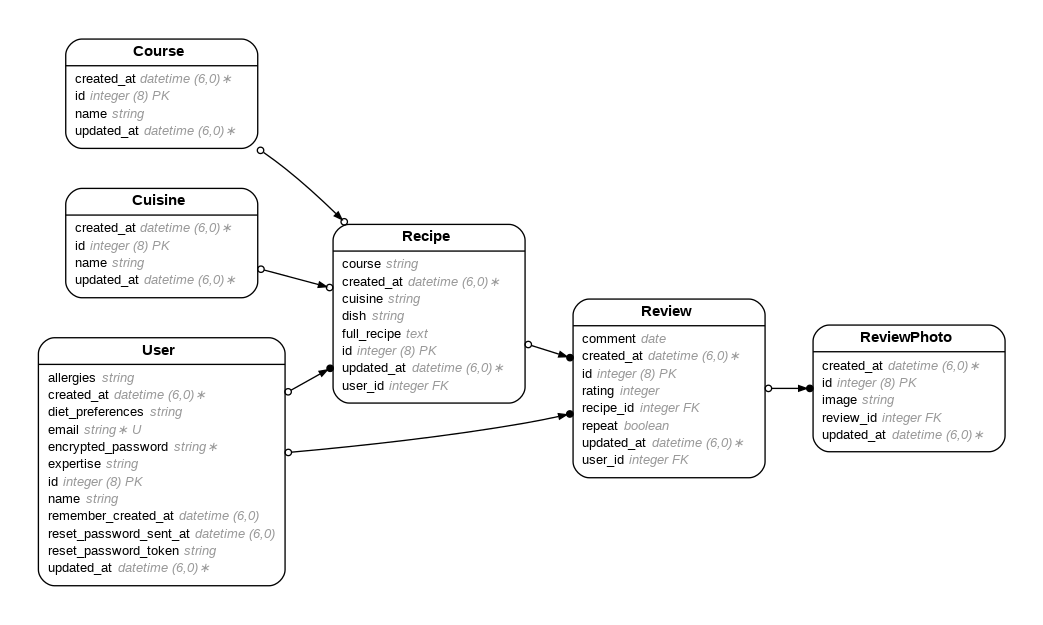
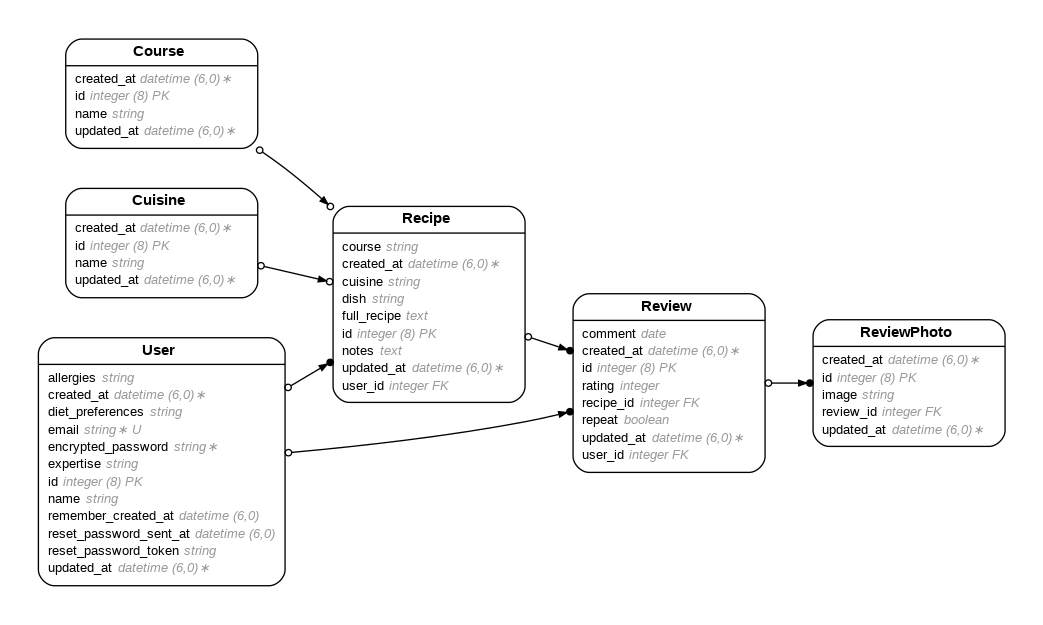
openAI loop completed

diff --git a/app/controllers/recipes_controller.rb b/app/controllers/recipes_controller.rb
@@ -12,20 +12,23 @@ class RecipesController < ApplicationController
     the_recipe.dish = params.fetch("dish")
     the_recipe.course = params.fetch("course")
     the_recipe.cuisine = params.fetch("cuisine")
+    the_recipe.notes = params.fetch("notes")
+
+    #prompt_text = "I need you to create a step by step recipe for #{the_recipe.dish}. More details about the dish: cuisine is #{the_recipe.cuisine}, it is a #{the_recipe.course} course. The user is #{current_user.expertise} chef. They also dietary preferences as #{current_user.diet_preferences} and are allergic to #{current_user.allergies}. The output needs to be structured as - first, give a bullet point ingredient list. Next, give approximate time to cook. Follow that with an estimate of macronutrients in this dish. Then, give a step by step recipe based on the user's profile shared earlier. Based on the user's profile and macronutrients in the current dish, give 2-3 suggestions the user can choose from for their next meal. Optimize for overall nutrition while giving suggestions."
+
+    # Swap the variable once user profile sheet is created
+    prompt_text = "I need you to create a step by step recipe for #{the_recipe.dish}. More details about the dish: cuisine is #{the_recipe.cuisine}, it is a #{the_recipe.course} course. The output needs to be structured as - first, give a bullet point ingredient list. Next, give approximate time to cook. Follow that with an estimate of macronutrients in this dish. Then, give a step by step recipe. Based on the macronutrients in the current dish, give 2-3 suggestions the user can choose from for their next meal. Optimize for overall nutrition while giving suggestions."
 
     if the_recipe.valid?
-      the_recipe.save
       
+      api_response=OPENAI_CLIENT.chat(:parameters=> {:model =>"gpt-3.5-turbo",:messages=>[{"role"=>"system","content"=> "You are a helpful recipe assistant"}, {"role"=>"user","content"=>prompt_text}]})
+      choices=api_response.fetch("choices")
+      first_choice=choices.at(0)
+      message_hash=first_choice.fetch("message")
+      user_recipe=message_hash.fetch("content")
+      the_recipe.full_recipe = user_recipe
 
-
-
-
-
-
-
-
-
-
+      the_recipe.save
       redirect_to("/recipes/"+the_recipe.id.to_s, { :notice => "Recipe created successfully." })
     else
       redirect_to("/recipes", { :alert => the_recipe.errors.full_messages.to_sentence })
@@ -33,47 +36,12 @@ class RecipesController < ApplicationController
   end
 
 
-  #check below
+  
   def show
-    the_id = params.fetch("path_id")
-
-    matching_recipes = Recipe.where({ :id => the_id })
-
-    @the_recipe = matching_recipes.at(0)
-
+    the_id=params.fetch("path_id")
+    matching_recipes=Recipe.where({:id=>the_id})
+    @the_recipe=matching_recipes.at(0)
     render({ :template => "recipes/show" })
   end
 
-  
-  def update
-    the_id = params.fetch("path_id")
-    the_recipe = Recipe.where({ :id => the_id }).at(0)
-
-    the_recipe.user_id = params.fetch("query_user_id")
-    the_recipe.name = params.fetch("query_name")
-    the_recipe.dish_type = params.fetch("query_dish_type")
-    the_recipe.full_recipe = params.fetch("query_full_recipe")
-    the_recipe.cuisine = params.fetch("query_cuisine")
-
-    if the_recipe.valid?
-      the_recipe.save
-      redirect_to("/recipes/#{the_recipe.id}", { :notice => "Recipe updated successfully."} )
-    else
-      redirect_to("/recipes/#{the_recipe.id}", { :alert => the_recipe.errors.full_messages.to_sentence })
-    end
-  end
-
-  def destroy
-    the_id = params.fetch("path_id")
-    the_recipe = Recipe.where({ :id => the_id }).at(0)
-
-    the_recipe.destroy
-
-    redirect_to("/recipes", { :notice => "Recipe deleted successfully."} )
-  end
-
-  def new
-    @recipe=Recipe.new
-    render({:template=>"recipes/new"})
-  end
 end

diff --git a/config/routes.rb b/config/routes.rb
@@ -18,48 +18,7 @@ Rails.application.routes.draw do
   # Display the recipe
   get("/recipes/:path_id", { :controller => "recipes", :action => "show" })
 
-
-  # Routes for the Course resource:
-
-  # CREATE
-  post("/insert_course", { :controller => "courses", :action => "create" })
-          
-  # READ
-  get("/courses", { :controller => "courses", :action => "index" })
   
-  get("/courses/:path_id", { :controller => "courses", :action => "show" })
-  
-  # UPDATE
-  
-  post("/modify_course/:path_id", { :controller => "courses", :action => "update" })
-  
-  # DELETE
-  get("/delete_course/:path_id", { :controller => "courses", :action => "destroy" })
-
-  #------------------------------
-
-  # Routes for the Cuisine resource:
-
-  # CREATE
-  post("/insert_cuisine", { :controller => "cuisines", :action => "create" })
-          
-  # READ
-  get("/cuisines", { :controller => "cuisines", :action => "index" })
-  
-  get("/cuisines/:path_id", { :controller => "cuisines", :action => "show" })
-  
-  # UPDATE
-  
-  post("/modify_cuisine/:path_id", { :controller => "cuisines", :action => "update" })
-  
-  # DELETE
-  get("/delete_cuisine/:path_id", { :controller => "cuisines", :action => "destroy" })
-
-  #------------------------------
-
-  
-
-
   # Delete / check below
   # Routes for the Review photo resource:
 

diff --git a/db/schema.rb b/db/schema.rb
@@ -10,7 +10,7 @@
 #
 # It's strongly recommended that you check this file into your version control system.
 
-ActiveRecord::Schema[7.1].define(version: 2025_05_16_061036) do
+ActiveRecord::Schema[7.1].define(version: 2025_05_16_063730) do
   # These are extensions that must be enabled in order to support this database
   enable_extension "plpgsql"
 
@@ -34,6 +34,7 @@ ActiveRecord::Schema[7.1].define(version: 2025_05_16_061036) do
     t.string "cuisine"
     t.datetime "created_at", null: false
     t.datetime "updated_at", null: false
+    t.text "notes"
   end
 
   create_table "review_photos", force: :cascade do |t|

diff --git a/app/models/recipe.rb b/app/models/recipe.rb
@@ -7,6 +7,7 @@
 #  cuisine     :string
 #  dish        :string
 #  full_recipe :text
+#  notes       :text
 #  created_at  :datetime         not null
 #  updated_at  :datetime         not null
 #  user_id     :integer

diff --git a/config/initializers/openai.rb b/config/initializers/openai.rb
@@ -1,3 +1,3 @@
 require "dotenv/load"
 require "openai"
-OPENAI_CLIENT = OpenAI::Client.new(:access_token=>ENV.fetch{"OPENAI_API_KEY"})
+::OPENAI_CLIENT = OpenAI::Client.new(:access_token=>ENV.fetch("OPENAI_API_KEY"))

diff --git a/db/migrate/20250516063730_add_notes_to_recipes.rb b/db/migrate/20250516063730_add_notes_to_recipes.rb
@@ -1,0 +1,5 @@
+class AddNotesToRecipes < ActiveRecord::Migration[7.1]
+  def change
+    add_column(:recipes,:notes,:text)
+  end
+end
